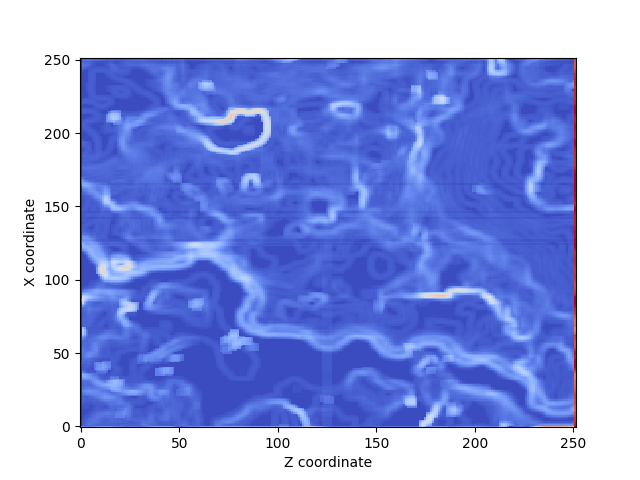
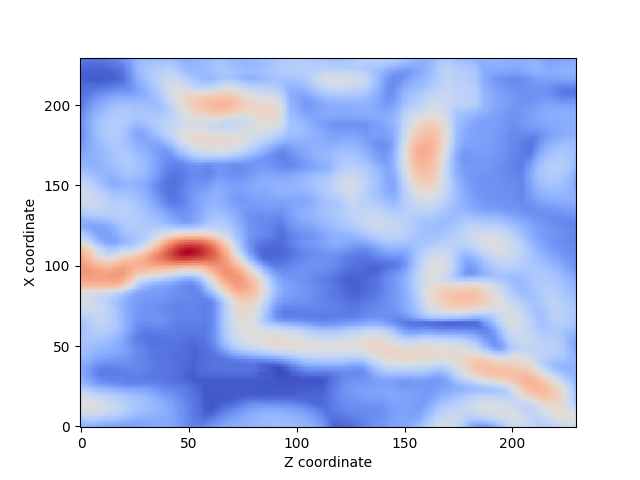
updated minmax scaling

diff --git a/classes/Graph.py b/classes/Graph.py
@@ -14,12 +14,13 @@ from classes.misc_functions import (
 )
 import matplotlib.pyplot as plt
 from typing import List, Tuple
+from sklearn.preprocessing import minmax_scale
 
 from constants import (
     IMAGE_DIR_FOLD,
     MAX_BUILDING_RADIUS,
-    MAXIMUM_DISTANCE_PENALTY,
     MAXIMUM_HOUSE_DISTANCE_PENALTY,
+    MAXIMUM_WATER_DISTANCE_PENALTY,
     WATER_SEARCH_RADIUS,
 )
 
@@ -109,7 +110,7 @@ class graph:
         )
 
         if PENALTY:
-            return MAXIMUM_DISTANCE_PENALTY
+            return MAXIMUM_WATER_DISTANCE_PENALTY
 
         radius = WATER_SEARCH_RADIUS // 2
 
@@ -159,15 +160,13 @@ class graph:
         for building_location in self.buildings_centres:
             cum_distance += manhattan(location, building_location)
 
-        return np.linalg.norm(np.array(location) - np.array(building_location))
+        value = cum_distance / len(self.buildings_centres)
+        if value == 0:
+            print("Yikes")
+        return value
 
     def _calculate_penalty(self, location, building_radius, type: fitness_functions):
-        coords = (
-            cut_out_bounds(location[0] - building_radius, self.x),
-            cut_out_bounds(location[1] - building_radius, self.z),
-            cut_out_bounds(location[0] + building_radius, self.x),
-            cut_out_bounds(location[1] + building_radius, self.z),
-        )
+        coords = self._calc_coordinates(location, building_radius)
 
         if type == fitness_functions.HOUSE_DISTANCE:
             for building_coords in self.buildings_coords:
@@ -181,6 +180,16 @@ class graph:
                         return True
 
         return False
+
+    def _calc_coordinates(self, location, building_radius):
+        coords = (
+            cut_out_bounds(location[0] - building_radius, self.x),
+            cut_out_bounds(location[1] - building_radius, self.z),
+            cut_out_bounds(location[0] + building_radius, self.x),
+            cut_out_bounds(location[1] + building_radius, self.z),
+        )
+
+        return coords
 
     def calculate_flatness_from_location(
         self, location: GridLocation, building_radius: int
@@ -209,7 +218,6 @@ class graph:
 
     def visualise(
         self,
-        autonormalize=True,
         building_radius=MAX_BUILDING_RADIUS,
         fitness=fitness_functions,
     ):
@@ -217,7 +225,6 @@ class graph:
 
         if fitness == fitness_functions.WATER_BOOLEAN:
             return run_fitness_for_all_coords(
-                autonormalize=autonormalize,
                 fitness=fitness_functions.WATER_BOOLEAN,
                 g=self,
             )
@@ -225,23 +232,21 @@ class graph:
         if fitness == fitness_functions.WATER_DISTANCE:
             return run_bounded_fitness_for_all_coords(
                 fitness=fitness_functions.WATER_DISTANCE,
-                autonormalize=autonormalize,
                 building_radius=building_radius,
                 g=self,
+                show_plot=True,
             )
 
         if fitness == fitness_functions.HOUSE_DISTANCE:
             return run_bounded_fitness_for_all_coords(
                 fitness=fitness_functions.HOUSE_DISTANCE,
-                autonormalize=autonormalize,
                 building_radius=building_radius,
                 g=self,
-                # show_plot=True,
+                show_plot=True,
             )
         if fitness == fitness_functions.FLATNESS:
             return run_bounded_fitness_for_all_coords(
                 fitness=fitness_functions.FLATNESS,
-                autonormalize=autonormalize,
                 building_radius=building_radius,
                 g=self,
             )
@@ -257,24 +262,7 @@ def manhattan(a_value, b_value):
     Returns:
         [type]: Manhattan distance between two vectors
     """
-    return sum(abs(val1 - val2) for val1, val2 in zip(a_value, b_value))
-
-
-def scale(X, x_min, x_max):
-    """Scales an array to a minimum value and maximum value
-
-    Args:
-        X ([type]): [description]
-        x_min ([type]): [description]
-        x_max ([type]): [description]
-
-    Returns:
-        [type]: [description]
-    """
-    nom = (X - X.min(axis=0)) * (x_max - x_min)
-    denom = X.max(axis=0) - X.min(axis=0)
-    denom[denom == 0] = 1
-    return x_min + nom / denom
+    return np.abs(np.array(a_value) - np.array(b_value)).sum()
 
 
 def surface_plot(matrix, **kwargs):
@@ -313,9 +301,7 @@ def show_2d_heatmap(arr: np.array, filename: str):
     heatmap.savefig(IMAGE_DIR_FOLD + "/" + filename + ".png")
 
 
-def run_fitness_for_all_coords(
-    fitness: fitness_functions, g: graph, autonormalize=True, show_plot=False
-):
+def run_fitness_for_all_coords(fitness: fitness_functions, g: graph, show_plot=False):
     fitness_function = []
     if fitness == fitness_functions.WATER_BOOLEAN:
         for x_value in range(0, g.x):
@@ -327,18 +313,23 @@ def run_fitness_for_all_coords(
                     tile.append(0)
             fitness_function.append(tile)
         w_b_m = np.array(fitness_function)
-        if autonormalize:
-            w_b_m = scale(w_b_m, 0, 1)
+        w_b_m = mm_scale(w_b_m)
         if show_plot:
             show_plot(w_b_m)
         show_2d_heatmap(w_b_m, fitness.value)
         return w_b_m
 
 
+def mm_scale(f_m):
+    f_m = np.array(f_m)
+    shape = f_m.shape
+    f_m = minmax_scale(f_m.ravel(), feature_range=(1, 256)).reshape(shape)
+    return f_m
+
+
 def run_bounded_fitness_for_all_coords(
     fitness: fitness_functions,
     g: graph,
-    autonormalize=True,
     building_radius=MAX_BUILDING_RADIUS,
     show_plot=False,
 ):
@@ -354,7 +345,7 @@ def run_bounded_fitness_for_all_coords(
     building_tiles = get_build_coord(location=location, building_radius=building_radius)
     g.building_tiles.extend(building_tiles)
     g.buildings_centres.append(location)
-    g.buildings_coords = [tuple(coords)]
+    g.buildings_coords.append(coords)
     for x_value in range(building_radius, g.x - building_radius):
         tile = []
         for z_value in range(building_radius, g.z - building_radius):
@@ -378,20 +369,20 @@ def run_bounded_fitness_for_all_coords(
                 )
         fitness_map.append(tile)
     f_m = np.array(fitness_map)
-    if autonormalize:
-        f_m = scale(f_m, 0, 1)
+    f_m = mm_scale(f_m)
     if show_plot:
         show_plt(f_m)
     show_2d_heatmap(f_m, fitness.value)
-    g.buildings_coords = []  # clean up the building tiles
     return f_m
 
 
 def print_all_fitness_graphs(g: graph):
+    """Prints all fitness graphs, including a mocked building site.
+    Includes a combined non binary fitness map also.
+    Args:
+        g (graph): Graph representation of the area."""
     fitness_maps = []
-
     for fitness in fitness_functions:
         fitness_maps.append(g.visualise(fitness=fitness))
     f_m = np.add(fitness_maps[0], fitness_maps[1])
-    f_m = scale(f_m, 0, 1)
-    show_plot(f_m)
+    show_plt(f_m)

diff --git a/classes/Population.py b/classes/Population.py
@@ -8,12 +8,12 @@ from operator import attrgetter
 from numpy import random
 import numpy as np
 from scipy.stats import multivariate_normal
-from classes.Graph import graph
+from classes.Graph import graph, mm_scale
 
 from classes.Location_Genome import LocationGenome
 from classes.Timer import Timer
 from classes.misc_functions import get_build_coord
-from sklearn.preprocessing import minmax_scale
+
 
 from constants import (
     BUILDING_DISTANCE_WEIGHTING,
@@ -140,19 +140,13 @@ class Population:
             flatness_fitness.append(flatness)
 
         if len(water_distance_fitness) != 0:
-            water_distance_fitness = minmax_scale(
-                water_distance_fitness, feature_range=(1, 2), axis=0
-            )
+            water_distance_fitness = mm_scale(water_distance_fitness)
 
         if len(building_distance_fitness) != 0:
-            building_distance_fitness = minmax_scale(
-                building_distance_fitness, feature_range=(1, 2), axis=0
-            )
+            building_distance_fitness = mm_scale(building_distance_fitness)
 
         if len(flatness_fitness) != 0:
-            flatness_fitness = minmax_scale(
-                flatness_fitness, feature_range=(1, 2), axis=0
-            )
+            flatness_fitness = mm_scale(flatness_fitness)
 
         for i in range(len(self.members)):
             if len(self.graph.water_tiles) != 0:

diff --git a/main.py b/main.py
@@ -6,7 +6,7 @@
     """
 
 
-from classes.ENUMS.fitness import fitness_functions
+from classes.Timer import Timer
 from classes.building_locations import BuildingLocations
 from classes.Graph import graph, print_all_fitness_graphs
 from classes.http_interface import get_world_state
@@ -33,6 +33,7 @@ def run_epochs(g_representation: graph) -> BuildingLocations:
         )
         locations.add_building(fitess)
         g_representation.building_tiles.extend(locations.locations[-1].build_locations)
+        g_representation.buildings_centres.append((fitess.x, fitess.z))
         g_representation.buildings_coords.append(
             locations.locations[-1].build_coordinates
         )
@@ -65,14 +66,17 @@ def generate_building_location_through_genetic_algorithm(
     return fitess_member
 
 
-if __name__ == "__main__":
-
+@Timer(text=" {:.2f} seconds")
+def main():
     start = time.time()
     g_start = get_world_state(area=AREA)
-    g_start.visualise(fitness=fitness_functions.HOUSE_DISTANCE)
     # print_all_fitness_graphs(g=g_start)
     buildings = run_epochs(g_start)
     buildings.paint_buildings()
 
     mins, sec = divmod(time.time() - start, 60)
     print(f"\n\nTOTAL RUN TIME: {mins:.0f}m {sec:.0f}s")
+
+
+if __name__ == "__main__":
+    main()

diff --git a/constants.py b/constants.py
@@ -8,15 +8,15 @@ BUILDING_DISTANCE_WEIGHTING = 2
 FLATNESS_FITNESS_WEIGHTING = 1
 DEFAULT_MUTATION_RATE = 1 / 6
 DEFAULT_POPULATION_SIZE = 5
-GENERATIONS = 10
-BUILDING_NUMBER = 20
-POPULATION_SIZE = 30
-AREA = (0, 0, 128, 256)  # x position, z position, x size, z size
+GENERATIONS = 30
+BUILDING_NUMBER = 11
+POPULATION_SIZE = 20
+AREA = (0, 0, 256, 256)  # x position, z position, x size, z size
 WATER_SEARCH_RADIUS = (
     MAX_BUILDING_RADIUS * 2
 )  # How far to search from building location for water, should be larger than MAX_BUILDING_RADIUS
-MAXIMUM_DISTANCE_PENALTY = MAX_BUILDING_RADIUS
-MAXIMUM_HOUSE_DISTANCE_PENALTY = AREA[3] * AREA[2]
+MAXIMUM_WATER_DISTANCE_PENALTY = MAX_BUILDING_RADIUS
+MAXIMUM_HOUSE_DISTANCE_PENALTY = AREA[2] + AREA[3]
 IMAGE_DIR_FOLD = "data/images"
 
 DEBUG_DRAW_WORKINGS: bool = False  # yellow/orange-first in frontier, light blue-candidate, NOT_POSSIBLE: Gray-drop or black
